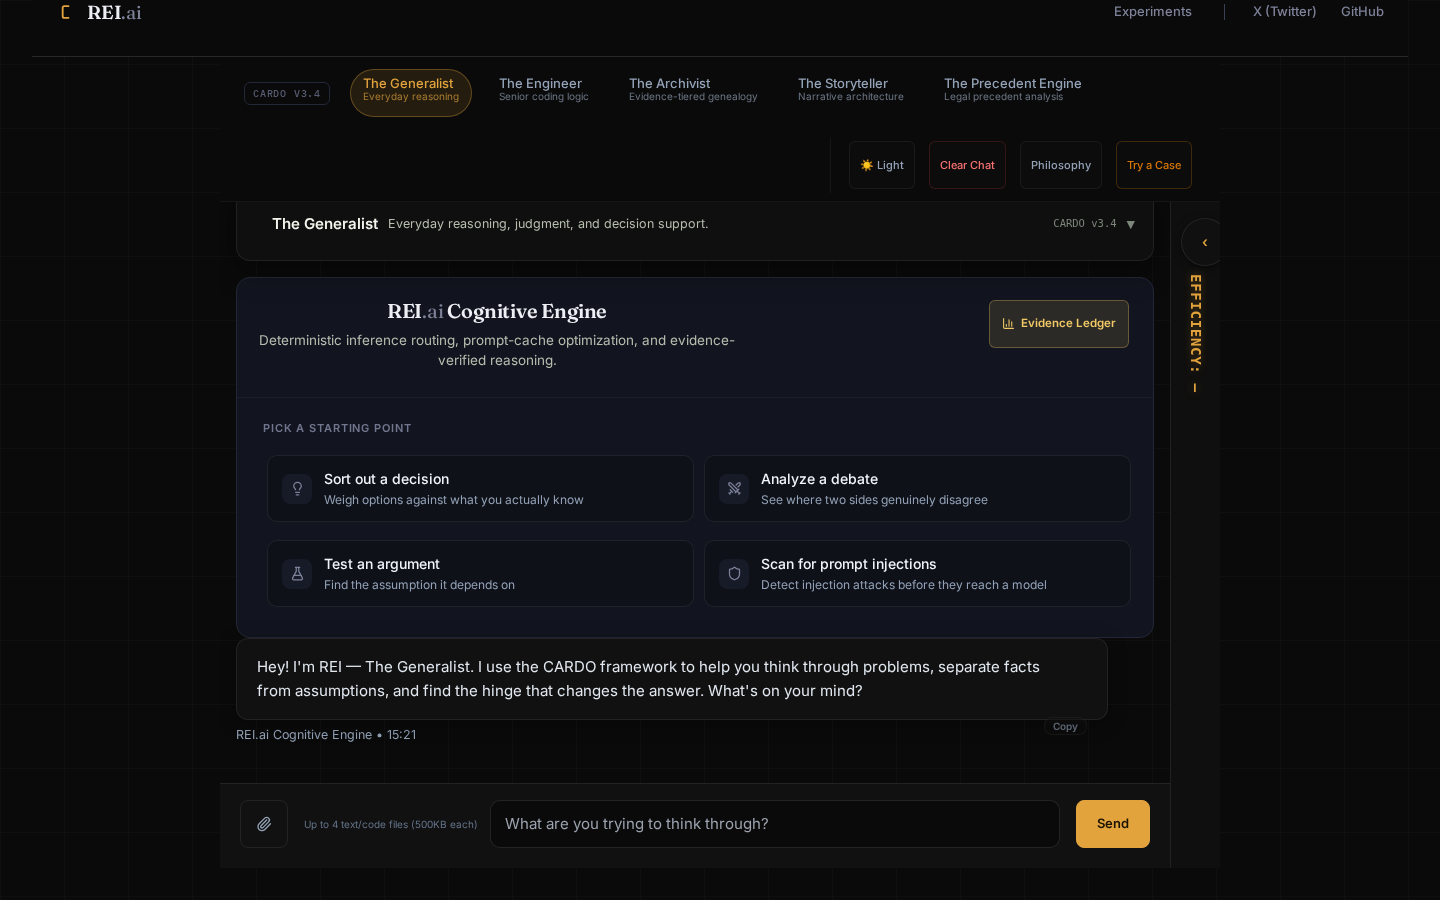
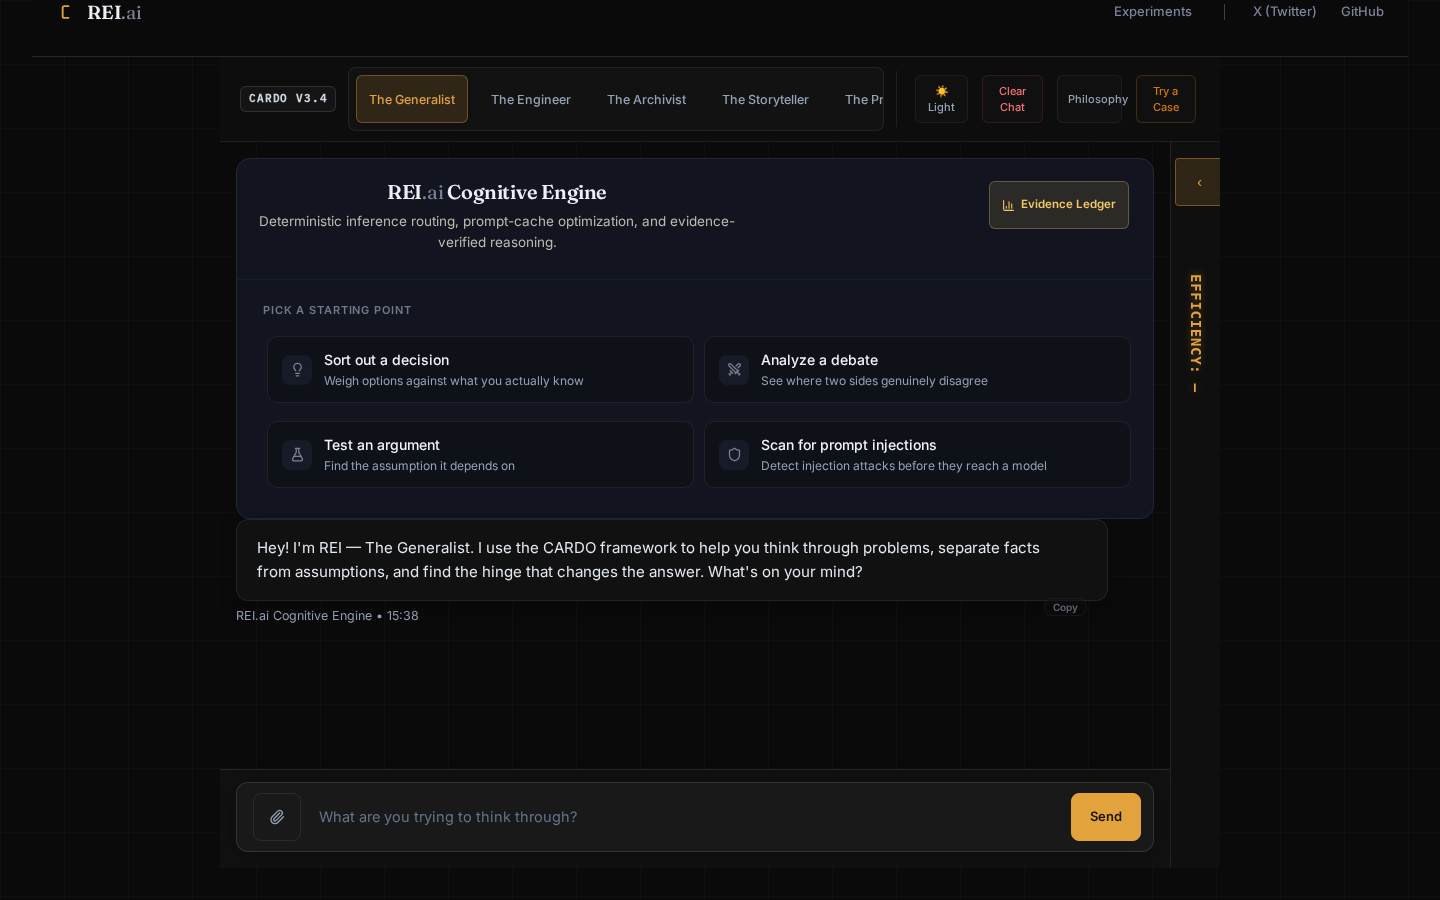
refactor(ui): single-row workspace header, streamlined command bar, and telemetry toggle alignment [caught: visual-qa]

diff --git a/src/styles/reiTheme.css b/src/styles/reiTheme.css
@@ -363,14 +363,15 @@
 /* Header bar */
 .rei-header {
   display: flex;
-  flex-wrap: wrap;
+  flex-wrap: nowrap;
   align-items: center;
-  justify-content: flex-start;
-  gap: 16px;
-  padding: 8px 24px;
-  background: rgba(10, 10, 10, 0.6);
-  border-bottom: 1px solid rgba(255, 255, 255, 0.05);
+  justify-content: space-between;
+  gap: 12px;
+  padding: 10px 20px;
+  background: rgba(14, 14, 14, 0.95);
+  border-bottom: 1px solid rgba(255, 255, 255, 0.08);
   backdrop-filter: blur(16px);
+  -webkit-backdrop-filter: blur(16px);
 }
 
 .rei-header__brand {
@@ -382,72 +383,84 @@
 
 .rei-header__version {
   font-family: "IBM Plex Mono", monospace;
-  font-size: 10px;
-  font-weight: 500;
+  font-size: 10.5px;
+  font-weight: 600;
   letter-spacing: 0.08em;
-  color: #565b72;
-  border: 1px solid #232838;
+  color: #cbd5e1;
+  border: 1px solid rgba(255, 255, 255, 0.12);
+  background: rgba(255, 255, 255, 0.03);
   border-radius: 6px;
-  padding: 3px 8px;
+  padding: 4px 8px;
   white-space: nowrap;
   text-transform: uppercase;
+  flex-shrink: 0;
 }
 
 .rei-domain-tabs {
-  display: flex;
-  flex-wrap: wrap;
-  gap: 6px;
+  display: inline-flex;
+  flex-wrap: nowrap;
+  gap: 2px;
   align-items: center;
   justify-content: flex-start;
-  flex: 1 1 auto;
+  background: rgba(255, 255, 255, 0.025);
+  border: 1px solid rgba(255, 255, 255, 0.07);
+  border-radius: 8px;
+  padding: 3px;
+  overflow-x: auto;
 }
 
 .rei-domain-tab {
-  padding: 6px 12px;
+  padding: 5px 12px;
   border: 1px solid transparent;
   background: transparent;
   color: #94a3b8;
-  font-size: 13px;
+  font-size: 12.5px;
   font-weight: 500;
-  border-radius: 999px;
+  border-radius: 6px;
   display: flex;
-  flex-direction: column;
-  align-items: flex-start;
-  gap: 1px;
-  transition: all 0.2s ease;
+  flex-direction: row;
+  align-items: center;
+  gap: 6px;
+  transition: all 0.15s ease;
   cursor: pointer;
+  white-space: nowrap;
+  flex-shrink: 0;
 }
 
 .rei-domain-tab__label {
-  line-height: 1.1;
+  line-height: 1.2;
 }
 
 .rei-domain-tab__sub {
   font-size: 10px;
   font-weight: 400;
-  opacity: 0.7;
+  opacity: 0.6;
   text-transform: none;
-  line-height: 1.1;
+  line-height: 1.2;
 }
 
 .rei-domain-tab:hover {
-  color: #EDEFF5;
-  border-color: rgba(226, 163, 61, 0.3);
+  color: #f1f5f9;
+  background: rgba(255, 255, 255, 0.04);
 }
 
 .rei-domain-tab.is-active {
-  background: rgba(226, 163, 61, 0.12) !important;
+  background: rgba(226, 163, 61, 0.14) !important;
   border: 1px solid rgba(226, 163, 61, 0.35) !important;
   color: #E2A33D !important;
-  box-shadow: none !important;
-  border-radius: 999px;
+  box-shadow: 0 1px 4px rgba(0, 0, 0, 0.2) !important;
+}
+
+.rei-domain-tab.is-active .rei-domain-tab__sub {
+  color: #f3d498;
+  opacity: 0.9;
 }
 
 .rei-header__actions {
   display: flex;
   align-items: center;
   gap: 6px;
-  border-left: 1px solid rgba(255, 255, 255, 0.06);
+  border-left: 1px solid rgba(255, 255, 255, 0.08);
   padding-left: 14px;
   margin-left: auto;
 }
@@ -812,34 +825,63 @@
 .rei-input-form {
   display: flex;
   flex-direction: column;
-  gap: 12px;
+  gap: 10px;
 }
 
 .rei-input-row {
   display: flex;
-  gap: 12px;
+  gap: 10px;
   align-items: center;
+  background: rgba(255, 255, 255, 0.035);
+  border: 1px solid rgba(255, 255, 255, 0.12);
+  border-radius: 12px;
+  padding: 6px 8px 6px 12px;
+  transition: all 0.2s cubic-bezier(0.4, 0, 0.2, 1);
+  box-shadow: 0 4px 20px rgba(0, 0, 0, 0.3);
+}
+
+.rei-input-row:focus-within {
+  border-color: rgba(226, 163, 61, 0.5);
+  background: rgba(255, 255, 255, 0.05);
+  box-shadow: 0 4px 24px rgba(0, 0, 0, 0.4), 0 0 0 1px rgba(226, 163, 61, 0.3);
+}
+
+.rei-clip-btn {
+  background: transparent;
+  border: none;
+  color: #94a3b8;
+  cursor: pointer;
+  display: inline-flex;
+  align-items: center;
+  justify-content: center;
+  padding: 6px;
+  border-radius: 6px;
+  transition: all 0.15s ease;
+}
+
+.rei-clip-btn:hover {
+  color: var(--amber);
+  background: rgba(255, 255, 255, 0.06);
 }
 
 .rei-input-area {
   flex: 1;
-  background: rgba(0, 0, 0, 0.4);
-  color: #E2E8F0;
-  border: 1px solid rgba(255, 255, 255, 0.1);
-  border-radius: 10px;
+  background: transparent;
+  color: #F1F5F9;
+  border: none;
   font-family: inherit;
-  font-size: 15px;
-  min-height: 44px;
+  font-size: 14.5px;
+  min-height: 38px;
+  max-height: 140px;
   resize: none;
   overflow-y: auto;
   line-height: 1.5;
   outline: none;
-  padding: 12px 14px;
+  padding: 8px 4px;
 }
 
-.rei-input-area:focus {
-  border-color: var(--amber);
-  box-shadow: 0 0 0 2px rgba(226, 163, 61, 0.25);
+.rei-input-area::placeholder {
+  color: #64748b;
 }
 
 .rei-touch-button {
@@ -850,8 +892,8 @@
   font-weight: 700;
   font-size: 13px;
   cursor: pointer;
-  padding: 0 20px;
-  height: 44px;
+  padding: 0 18px;
+  height: 38px;
   transition: all 0.2s ease;
   white-space: nowrap;
 }
@@ -867,6 +909,7 @@
   color: #1A1300 !important;
   border: 1px solid #E2A33D !important;
   min-width: 64px;
+  border-radius: 8px;
 }
 
 .rei-touch-button--send:hover {
@@ -1016,39 +1059,53 @@
   overflow-x: hidden;
 }
 
-.rei-instrument-rail.is-collapsed {
-  width: 50px !important;
-  padding: 24px 4px !important;
+.rei-instrument-rail__header {
+  display: flex;
   align-items: center;
-  overflow: hidden;
+  justify-content: space-between;
+  width: 100%;
+  padding-bottom: 2px;
+}
+
+.rei-instrument-rail__title {
+  font-size: 11px;
+  text-transform: uppercase;
+  letter-spacing: 0.12em;
+  font-weight: 700;
+  color: var(--amber);
 }
 
 .rei-instrument-rail__toggle-btn {
-  position: absolute;
-  left: 6px;
-  top: 12px;
-  width: 24px;
-  height: 24px;
-  border-radius: 50%;
-  background: rgba(17, 17, 17, 0.95) !important;
-  border: 1px solid rgba(255, 255, 255, 0.08) !important;
-  color: var(--amber) !important;
-  display: flex;
+  width: 22px;
+  height: 22px;
+  border-radius: 4px;
+  background: rgba(255, 255, 255, 0.05) !important;
+  border: 1px solid rgba(255, 255, 255, 0.1) !important;
+  color: #cbd5e1 !important;
+  display: inline-flex;
   align-items: center;
   justify-content: center;
   cursor: pointer;
-  z-index: 10;
-  transition: all 0.2s ease;
-  font-size: 14px;
-  font-weight: bold;
-  box-shadow: 0 2px 8px rgba(0, 0, 0, 0.5);
+  transition: all 0.15s ease;
+  font-size: 13px;
   line-height: 1;
 }
 
 .rei-instrument-rail__toggle-btn:hover {
-  background: var(--amber) !important;
-  color: #07090d !important;
-  box-shadow: 0 0 10px rgba(226, 163, 61, 0.5);
+  background: rgba(226, 163, 61, 0.15) !important;
+  border-color: rgba(226, 163, 61, 0.4) !important;
+  color: var(--amber) !important;
+}
+
+.rei-instrument-rail.is-collapsed {
+  width: 50px !important;
+  padding: 16px 4px !important;
+  align-items: center;
+  overflow: hidden;
+}
+
+.rei-instrument-rail.is-collapsed .rei-instrument-rail__toggle-btn {
+  margin: 0 auto;
 }
 
 .rei-instrument-rail__section {

diff --git a/src/REI.jsx b/src/REI.jsx
@@ -780,9 +780,9 @@ export default function REI({ initialPrompt } = {}) {
                 type="button"
                 onClick={() => setSelectedDomain(dom.id)}
                 className={`rei-domain-tab ${selectedDomain === dom.id ? "is-active" : ""}`}
+                title={getDomain(dom.id)?.subtitle || dom.label}
               >
                 <span className="rei-domain-tab__label">{dom.label}</span>
-                <span className="rei-domain-tab__sub">{getDomain(dom.id)?.subtitle || ""}</span>
               </button>
             ))}
           </div>
@@ -839,7 +839,7 @@ export default function REI({ initialPrompt } = {}) {
         <div style={{ display: "flex", flex: 1, minHeight: 0, overflow: "hidden", maxWidth: "1400px", margin: "0 auto", width: "100%" }}>
           <div style={{ flex: 1, display: "flex", flexDirection: "column", minWidth: 0, height: "100%", overflow: "hidden" }}>
             <main className="flex-1 overflow-y-auto px-4 py-4 rei-main-content">
-              {(!mobile || messages.length > 1 || isTyping) && (
+              {(messages.length > 1 || isTyping || selectedDomain !== "assistant") && (
                 <DomainBanner currentDomain={currentDomain} selectedDomain={selectedDomain} reasoningLoopSteps={REASONING_LOOP_STEPS} />
               )}
 
@@ -882,7 +882,16 @@ export default function REI({ initialPrompt } = {}) {
                   }}>×</button>
                 </div>
               )}
-              <ChatHistory messages={messages} selectedDomain={selectedDomain} isTyping={isTyping} chatEndRef={chatEndRef} mobile={mobile} onCopy={copyText} onExport={handleExport} domainLabel={currentDomain?.label || "REI.ai"} />
+              <ChatHistory
+                messages={messages}
+                selectedDomain={selectedDomain}
+                isTyping={isTyping}
+                chatEndRef={chatEndRef}
+                mobile={mobile}
+                onCopy={copyText}
+                onExport={handleExport}
+                domainLabel={currentDomain?.label || "REI.ai"}
+              />
 
               {backendError && (
                 <BackendUnavailablePanel

diff --git a/src/components/InstrumentRail.jsx b/src/components/InstrumentRail.jsx
@@ -40,14 +40,17 @@ export default function InstrumentRail({
 
   return (
     <aside className="rei-instrument-rail" aria-label="Session instrumentation">
-      <button
-        onClick={() => setIsCollapsed(true)}
-        className="rei-instrument-rail__toggle-btn"
-        aria-label="Collapse sidebar"
-        title="Collapse sidebar"
-      >
-        &#8250;
-      </button>
+      <div className="rei-instrument-rail__header">
+        <span className="rei-instrument-rail__title">Live Telemetry</span>
+        <button
+          onClick={() => setIsCollapsed(true)}
+          className="rei-instrument-rail__toggle-btn"
+          aria-label="Collapse sidebar"
+          title="Collapse sidebar"
+        >
+          &#8250;
+        </button>
+      </div>
 
       <div className="rei-side-card">
         <div className="rei-side-card__heading">This Session</div>

diff --git a/src/modules/rei/components/ChatInput.jsx b/src/modules/rei/components/ChatInput.jsx
@@ -97,13 +97,11 @@ export default function ChatInput() {
               type="button"
               className="rei-clip-btn"
               onClick={() => fileInputRef.current?.click()}
-              title="Attach text/code files"
+              title="Attach text/code files (up to 4 files, max 500KB each)"
+              aria-label="Attach text/code files"
             >
               <Paperclip size={16} />
             </button>
-            <span className="rei-file-hint">
-              Up to 4 text/code files (500KB each)
-            </span>
             <textarea
               ref={inputRef}
               className="rei-input-area"
